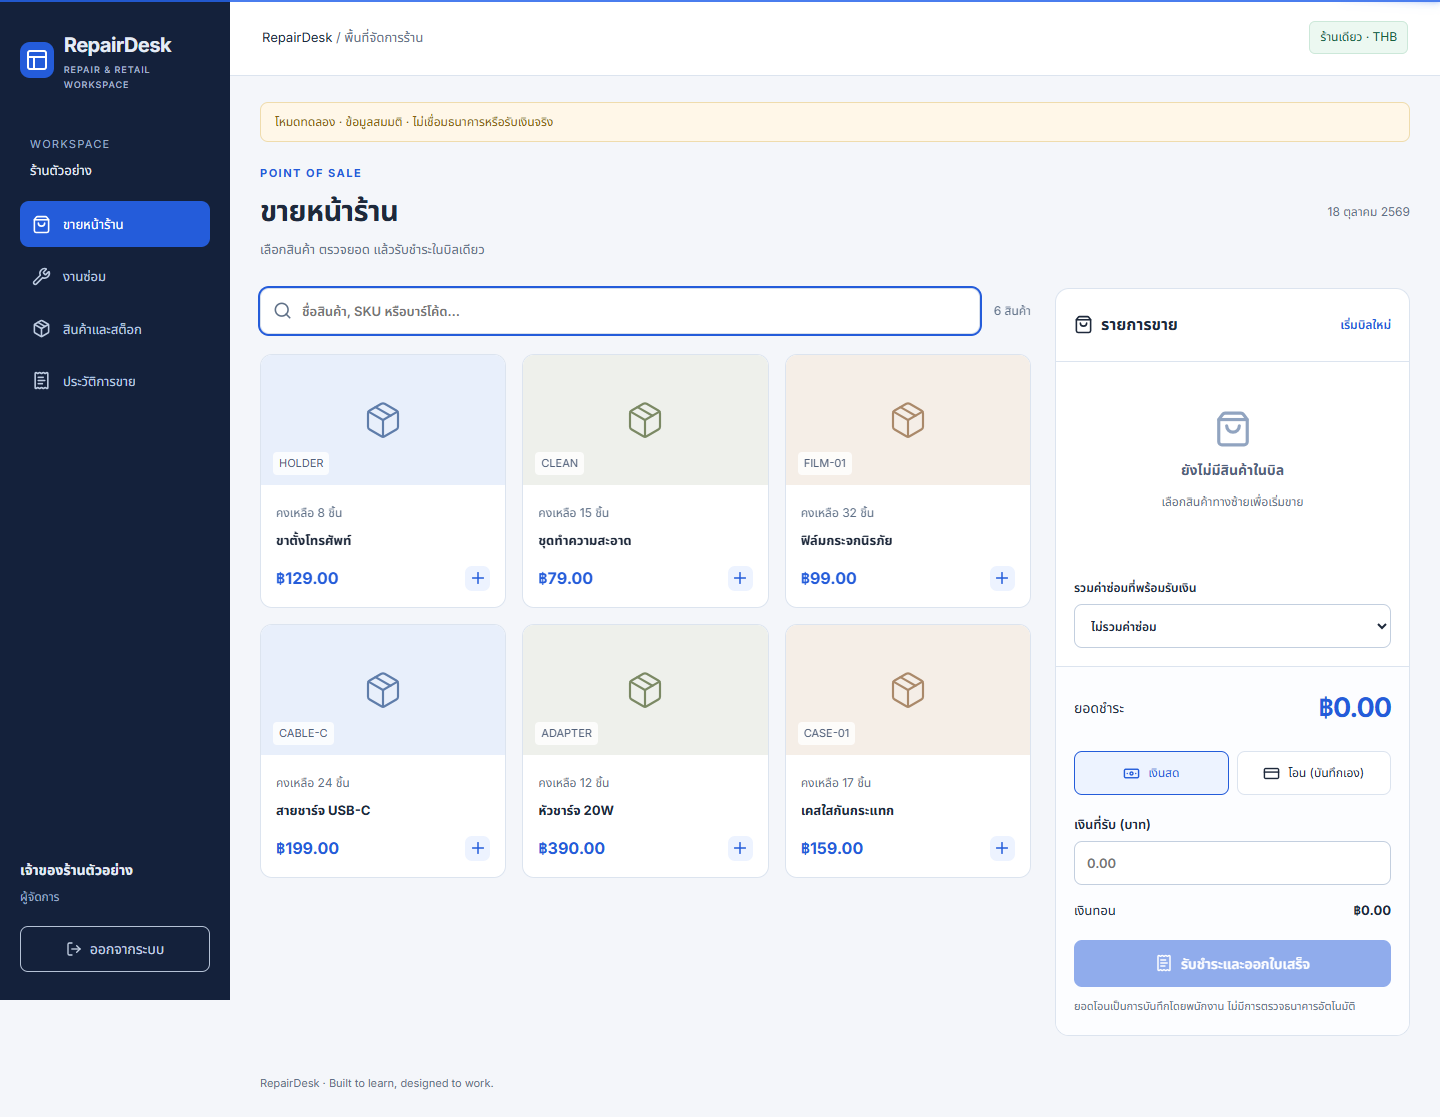
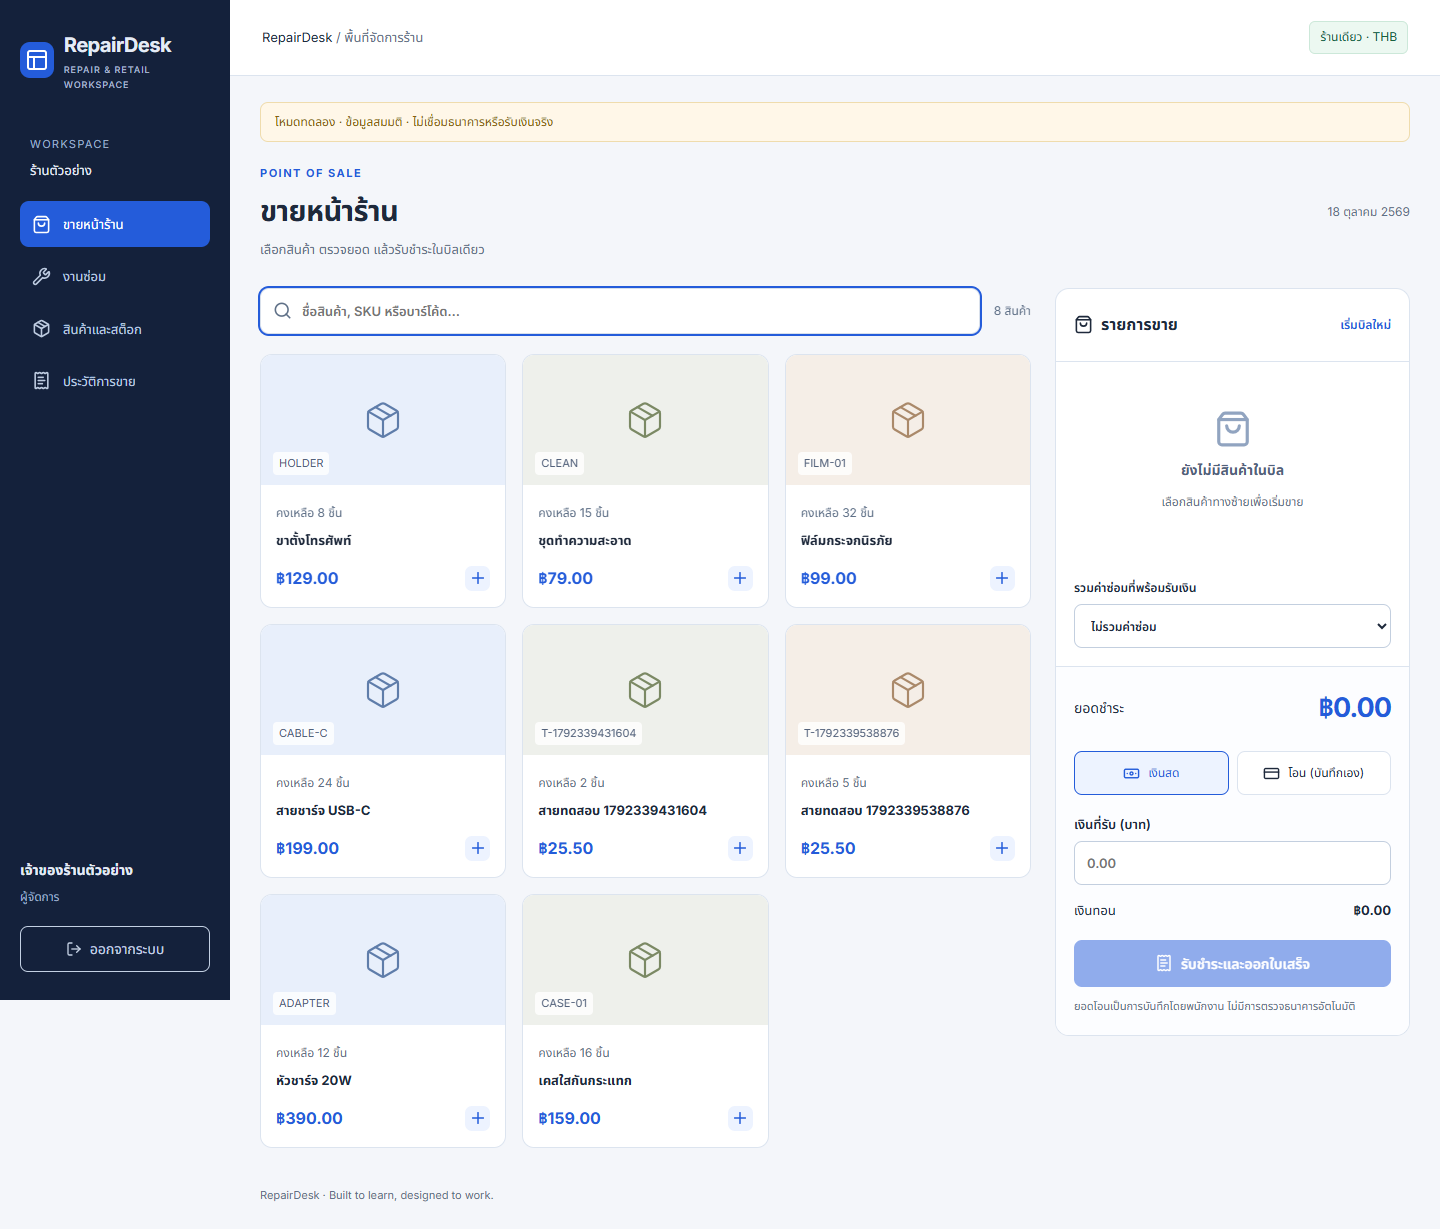
docs: record verified local MVP

diff --git a/docs/architecture.md b/docs/architecture.md
@@ -17,4 +17,4 @@ Paid sale lines retain names/prices even when product data changes. Repair billi
 
 ## Checks
 
-Local: 18 PHP tests / 83 assertions, Pint, TypeScript/build, four Chrome browser scenarios (cash receipt/mobile, inventory adjustment, full repair payment/delivery and technician restrictions). GitHub CI additionally runs the PHP suite on PostgreSQL and a real two-process stock race: two cashiers, one item, exactly one successful sale.
+Local: 18 PHP tests / 83 assertions, Pint, TypeScript/build, four Chrome browser scenarios (cash receipt/mobile, inventory adjustment, full repair payment/delivery and technician restrictions). GitHub CI is configured to run the PHP suite on PostgreSQL and a real two-process stock race: two cashiers, one item, exactly one successful sale. The first remote run is pending approval to publish the source; PostgreSQL/concurrency checks have not yet run locally.
